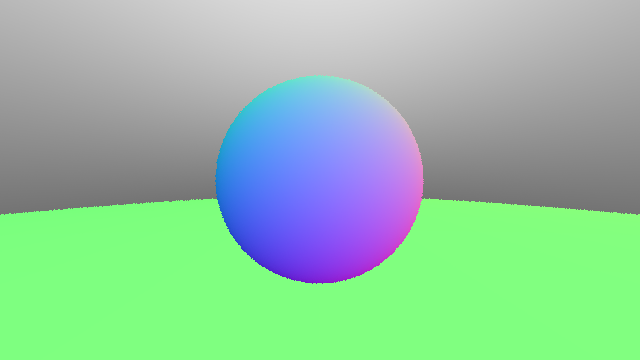
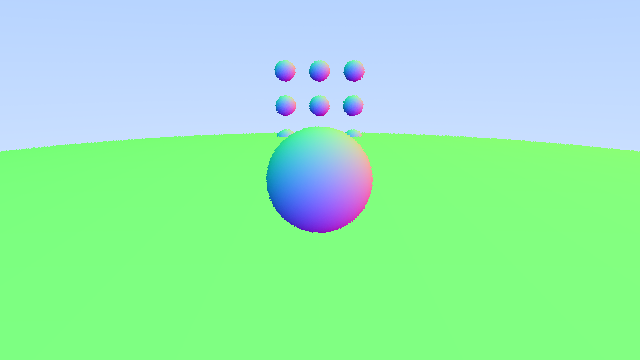
Camera improved lookat, lookfrom, fov

diff --git a/src/v0_single_threaded/main.cc b/src/v0_single_threaded/main.cc
@@ -5,30 +5,6 @@
 #define STB_IMAGE_WRITE_IMPLEMENTATION
 #include "external/stb_image_write.h"
 
-// Image dimensions
-const auto aspect_ratio = 16.0 / 9.0;
-const int image_height = 360;
-const int image_width = static_cast<int>(image_height * aspect_ratio);
-const int channels = 3; // RGB
-
-// Camera setting, where the viewport is what the camera sees
-auto focal_length = 1.0;
-auto viewport_height = 2;
-auto viewport_width = (static_cast<double>(image_width) / image_height) * viewport_height;
-auto camera_center = point3(0, 0, 0);
-
-// Calculate the vectors across the horizontal and down the vertical viewport edges.
-auto viewport_u = vec3(viewport_width, 0, 0);
-auto viewport_v = vec3(0, -viewport_height, 0);
-
-// Calculate the horizontal and vertical delta vectors from pixel to pixel.
-auto pixel_delta_u = viewport_u / image_width;
-auto pixel_delta_v = viewport_v / image_height;
-
-// Calculate the location of the upper left pixel.
-auto viewport_upper_left = camera_center - vec3(0, 0, focal_length) - viewport_u / 2 - viewport_v / 2;
-auto pixel00_loc = viewport_upper_left + 0.5 * (pixel_delta_u + pixel_delta_v);
-
 // Function to write image buffer to PNG file
 void writeImage(const vector<unsigned char> &image, int image_width, int image_height, const std::string &filename)
 {
@@ -43,16 +19,14 @@ void writeImage(const vector<unsigned char> &image, int image_width, int image_h
     }
 }
 
-
-
-[[deprecated("Use the other setPixel function instead")]]
-inline void setPixel(vector<unsigned char> &viewPort, int x, int y, unsigned char r, unsigned char g, unsigned char b)
-{
-    int index = (y * image_width + x) * channels;
-    viewPort[index] = r;
-    viewPort[index + 1] = g;
-    viewPort[index + 2] = b;
-}
+// [[deprecated("Use the other setPixel function instead")]]
+// inline void setPixel(vector<unsigned char> &viewPort, int x, int y, unsigned char r, unsigned char g, unsigned char b)
+// {
+//     int index = (y * image_width + x) * channels;
+//     viewPort[index] = r;
+//     viewPort[index + 1] = g;
+//     viewPort[index + 2] = b;
+// }
 
 /**
  * @brief Calculates the intersection point of a ray with a sphere
@@ -80,98 +54,67 @@ inline void setPixel(vector<unsigned char> &viewPort, int x, int y, unsigned cha
  * @note When the discriminant is non-negative, this function returns the larger t value,
  *       corresponding to the exit point of the ray from the sphere
  */
-[[deprecated("Use the hit_sphere_simplified function instead")]]
-double hit_sphere(const point3 &center, double radius, const ray &r)
-{
-    auto a = r.direction().length_squared(); // Which is like r.dir · r.dir = ||r.dir||^2
-    auto b = -2.0 * dot(r.direction(), center - r.origin());
-    auto c = (center - r.origin()).length_squared() - radius * radius;
-    auto discriminant = b * b - 4 * a * c;
-
-    if (discriminant < 0)
-    {
-        return -1.0;
-    }
-    else
-    {
-        return (-b - sqrt(discriminant)) / (2.0 * a); // We return the closest intersection
-    }
-}
-
-[[deprecated("Use the hit function in sphere instead")]]
-double hit_sphere_simplified(const point3 &center, double radius, const ray &r)
-{
-    auto oc = center - r.origin();
-    auto a = r.direction().length_squared(); // Which is like r.dir · r.dir = ||r.dir||^2
-    auto h = dot(r.direction(), oc);
-    auto c = (oc).length_squared() - radius * radius;
-    auto discriminant = h * h - a * c;
-
-    if (discriminant < 0)
-    {
-        return -1.0;
-    }
-    else
-    {
-        return (h - sqrt(discriminant)) / a; // We return the closest intersection
-    }
-}
-
-
-
-[[deprecated("Use the ray_color function with hittable instead")]]
-inline color ray_color_v0(const ray &r)
-{
-    vec3 unit_direction = unit_vector(r.direction());
-    auto sphere_center = point3(0, 0, -1);
-
-    auto t = hit_sphere_simplified(sphere_center, 0.5, r);
-
-    if (t > 0.0)
-    {
-        // Normal is the vector from the sphere center to the hit point
-        vec3 normal = unit_vector(r.at(t) - sphere_center);
-        return 0.5 * color(normal.x() + 1, normal.y() + 1, normal.z() + 1);
-    }
-
-    // Le vecteur unit_direction variera entre -1 et +1 en x et y
-    // A blue to white gradient background
-    double q = 0.5 * (unit_direction.x() + 1.0);
-    return (1.0 - q) * color(1.0, 1.0, 1.0) + q * color(0.5, 0.7, 1.0);
-}
-
-// void renderPixels_v0(std::vector<unsigned char> &image)
+// [[deprecated("Use the hit_sphere_simplified function instead")]]
+// double hit_sphere(const point3 &center, double radius, const ray &r)
 // {
-//     // All our hittable objects
-//     hittable_list scene;
+//     auto a = r.direction().length_squared(); // Which is like r.dir · r.dir = ||r.dir||^2
+//     auto b = -2.0 * dot(r.direction(), center - r.origin());
+//     auto c = (center - r.origin()).length_squared() - radius * radius;
+//     auto discriminant = b * b - 4 * a * c;
 
-//     scene.add(make_shared<sphere>(point3(0, 0, -10), .9));
-//     scene.add(make_shared<sphere>(point3(0, -100.5, -0), 100));
-
-//     for (int y = 0; y < image_height; ++y)
+//     if (discriminant < 0)
 //     {
-//         for (int x = 0; x < image_width; ++x)
-//         {
-//             // Progress indicator
-//             if (x == 0)
-//             {
-//                 showProgress(y, image_height);
-//             }
-//             // Calculate the direction of the ray for the current pixel
-//             vec3 pixel_center = pixel00_loc + x * pixel_delta_u + y * pixel_delta_v;
-//             // cout << "Pixel[" << x << "," << y << "] at " << pixel_center << endl;
-//             vec3 ray_direction = pixel_center - camera_center;
-
-//             // Create a ray from the camera center through the pixel
-//             ray r(camera_center, unit_vector(ray_direction));
-
-//             color pixel_color(ray_color(r, scene));
-//             setPixel(image, x, y, pixel_color);
-//         }
+//         return -1.0;
 //     }
-//     showProgress(image_height - 1, image_height);
-//     cout << endl;
+//     else
+//     {
+//         return (-b - sqrt(discriminant)) / (2.0 * a); // We return the closest intersection
+//     }
 // }
+
+// [[deprecated("Use the hit function in sphere instead")]]
+// double hit_sphere_simplified(const point3 &center, double radius, const ray &r)
+// {
+//     auto oc = center - r.origin();
+//     auto a = r.direction().length_squared(); // Which is like r.dir · r.dir = ||r.dir||^2
+//     auto h = dot(r.direction(), oc);
+//     auto c = (oc).length_squared() - radius * radius;
+//     auto discriminant = h * h - a * c;
+
+//     if (discriminant < 0)
+//     {
+//         return -1.0;
+//     }
+//     else
+//     {
+//         return (h - sqrt(discriminant)) / a; // We return the closest intersection
+//     }
+// }
+
+// [[deprecated("Use the ray_color function with hittable instead")]]
+// inline color ray_color_v0(const ray &r)
+// {
+//     vec3 unit_direction = unit_vector(r.direction());
+//     auto sphere_center = point3(0, 0, -1);
+
+//     auto t = hit_sphere_simplified(sphere_center, 0.5, r);
+
+//     if (t > 0.0)
+//     {
+//         // Normal is the vector from the sphere center to the hit point
+//         vec3 normal = unit_vector(r.at(t) - sphere_center);
+//         return 0.5 * color(normal.x() + 1, normal.y() + 1, normal.z() + 1);
+//     }
+
+//     // Le vecteur unit_direction variera entre -1 et +1 en x et y
+//     // A blue to white gradient background
+//     double q = 0.5 * (unit_direction.x() + 1.0);
+//     return (1.0 - q) * color(1.0, 1.0, 1.0) + q * color(0.5, 0.7, 1.0);
+// }
+
+int image_width = 0;
+int image_height = 0;
+const int channels = 3; // RGB
 
 /**
  * Just for the sake of putting a gradient in a file
@@ -199,14 +142,25 @@ void dumpImageToFile(vector<unsigned char> &image, string name)
 
 int main()
 {
-    vector<unsigned char> image(image_width * image_height * channels);
-    Camera c(vec3(0,0,0), channels);
+    Camera c(vec3(0, 0, 0), channels);
+    image_width = c.image_width;
+    image_height = c.image_height;
+
+    vector<unsigned char> image(c.image_width * c.image_height * channels);
     hittable_list scene;
     scene.add(make_shared<sphere>(point3(0, 0, -1), .5));
     scene.add(make_shared<sphere>(point3(0, -100.5, -1), 100));
+
+    for (int x = -5; x <= 5; x += 5)
+    {
+        for (int y = -5; y <= 5; y += 5)
+        {
+            scene.add(make_shared<sphere>(point3(x / 5.0, y / 5.0, -10), .3));
+        }
+    }
     c.renderPixels(scene, image);
 
-    std::cout << "🖼 resolution: " << image_width << " x " << image_height << " pixels" << std::endl;
+    std::cout << "🖼 resolution: " << c.image_width << " x " << c.image_height << " pixels" << std::endl;
 
     dumpImageToFile(image, "output.png");
 

diff --git a/src/v0_single_threaded/camera.h b/src/v0_single_threaded/camera.h
@@ -1,34 +1,37 @@
+#include "utils.h"
+
 #pragma once
 
-#include "utils.h"
+inline double degrees_to_radians(double degrees) {
+    return degrees * M_PI / 180.0;
+}
 
 class Camera
 {
 
 public:
-    const double aspect_ratio = 16.0 / 9.0;
+    const double aspect_ratio = 16.0/9.0;
     const int image_height = 360;
     const int image_width = static_cast<int>(aspect_ratio * image_height);
 
+    double vfov = 45.0; // vertical field of view in degrees
+    point3 lookfrom = point3(0,1,3);   // Point camera is looking from
+    point3 lookat   = point3(0,0,-1);  // Point camera is looking at
+    vec3   vup      = vec3(0,1,0);     // Camera-relative "up" direction
+
+    int samples_per_pixel = 1;
+
     int n_rays = 0; // Number of rays traced so far with this cam
 
-    Camera(const point3 &center, const int image_channels) : camera_center(center), image_channels(image_channels)
+    Camera(const point3 &center, const int image_channels) : image_channels(image_channels), camera_center(center)
     {
         initialize();
     }
 
-    Camera() : Camera(point3(0, 0, 0), 3) {}
+    Camera() : Camera(vec3(0, 0, 0), 3) {}
 
     void renderPixels(const hittable &scene, vector<unsigned char> &image)
     {
-        // for (int x = -5; x <= 5; x += 5) {
-        //     for (int y = -5; y <= 5; y += 5) {
-        //         world.add(make_shared<sphere>(point3(x/5.0, y/5.0, -10), .3));
-        //     }
-        // }
-
-        int samples_per_pixel = 1;
-
         for (int y = 0; y < image_height; ++y)
         {
             for (int x = 0; x < image_width; ++x)
@@ -66,32 +69,41 @@ public:
     }
 
 private:
-    int image_channels; // Number of color channels per pixel (e.g., 3 for RGB)
+    int image_channels = 3; // Number of color channels per pixel (e.g., 3 for RGB)
 
     point3 camera_center; // Camera center
     point3 pixel00_loc;   // Location of pixel 0, 0
     vec3 pixel_delta_u;   // Offset to pixel to the right
     vec3 pixel_delta_v;   // Offset to pixel below
+    vec3 u, v, w;         // Camera frame basis vectors
 
     void initialize()
     {
-        camera_center = point3(0, 0, 0);
+        camera_center = lookfrom;
 
         // Determine viewport dimensions.
-        auto focal_length = 1.0;
-        auto viewport_height = 2.0;
+        auto focal_length = (lookfrom - lookat).length();        
+        auto theta = degrees_to_radians(vfov);
+        auto h = tan(theta/2);        
+        
+        auto viewport_height = 2 * h * focal_length;
         auto viewport_width = viewport_height * (double(image_width) / image_height);
 
+        // Compute camera basis vectors.
+        w = unit_vector(lookfrom - lookat);
+        u = unit_vector(cross(vup, w));
+        v = cross(w, u);
+
         // Calculate the vectors across the horizontal and down the vertical viewport edges.
-        auto viewport_u = vec3(viewport_width, 0, 0);
-        auto viewport_v = vec3(0, -viewport_height, 0);
+        auto viewport_u = viewport_width * u;
+        auto viewport_v = viewport_height * -v;
 
         // Calculate the horizontal and vertical delta vectors from pixel to pixel.
         pixel_delta_u = viewport_u / image_width;
         pixel_delta_v = viewport_v / image_height;
 
         // Calculate the location of the upper left pixel.
-        auto viewport_upper_left = camera_center - vec3(0, 0, focal_length) - viewport_u / 2 - viewport_v / 2;
+        auto viewport_upper_left = camera_center - (focal_length * w) - viewport_u / 2 - viewport_v / 2;
         pixel00_loc = viewport_upper_left + 0.5 * (pixel_delta_u + pixel_delta_v);
     }
 
@@ -113,7 +125,11 @@ private:
         // A blue to white gradient background
         vec3 unit_direction = unit_vector(r.direction());
         double q = 0.5 * (unit_direction.y() + 1.0);
-        return (1.0 - q) * color(.0, .0, .0) + q * color(1.0, 1.0, 1.0);
+        static const color blue(0.5, 0.7, 1.0);
+        static const color white(1.0, 1.0, 1.0);
+        static color c1 = white;
+        static color c2 = blue;
+        return (1.0 - q) * c1 + q * c2;
     }
 
     /**
